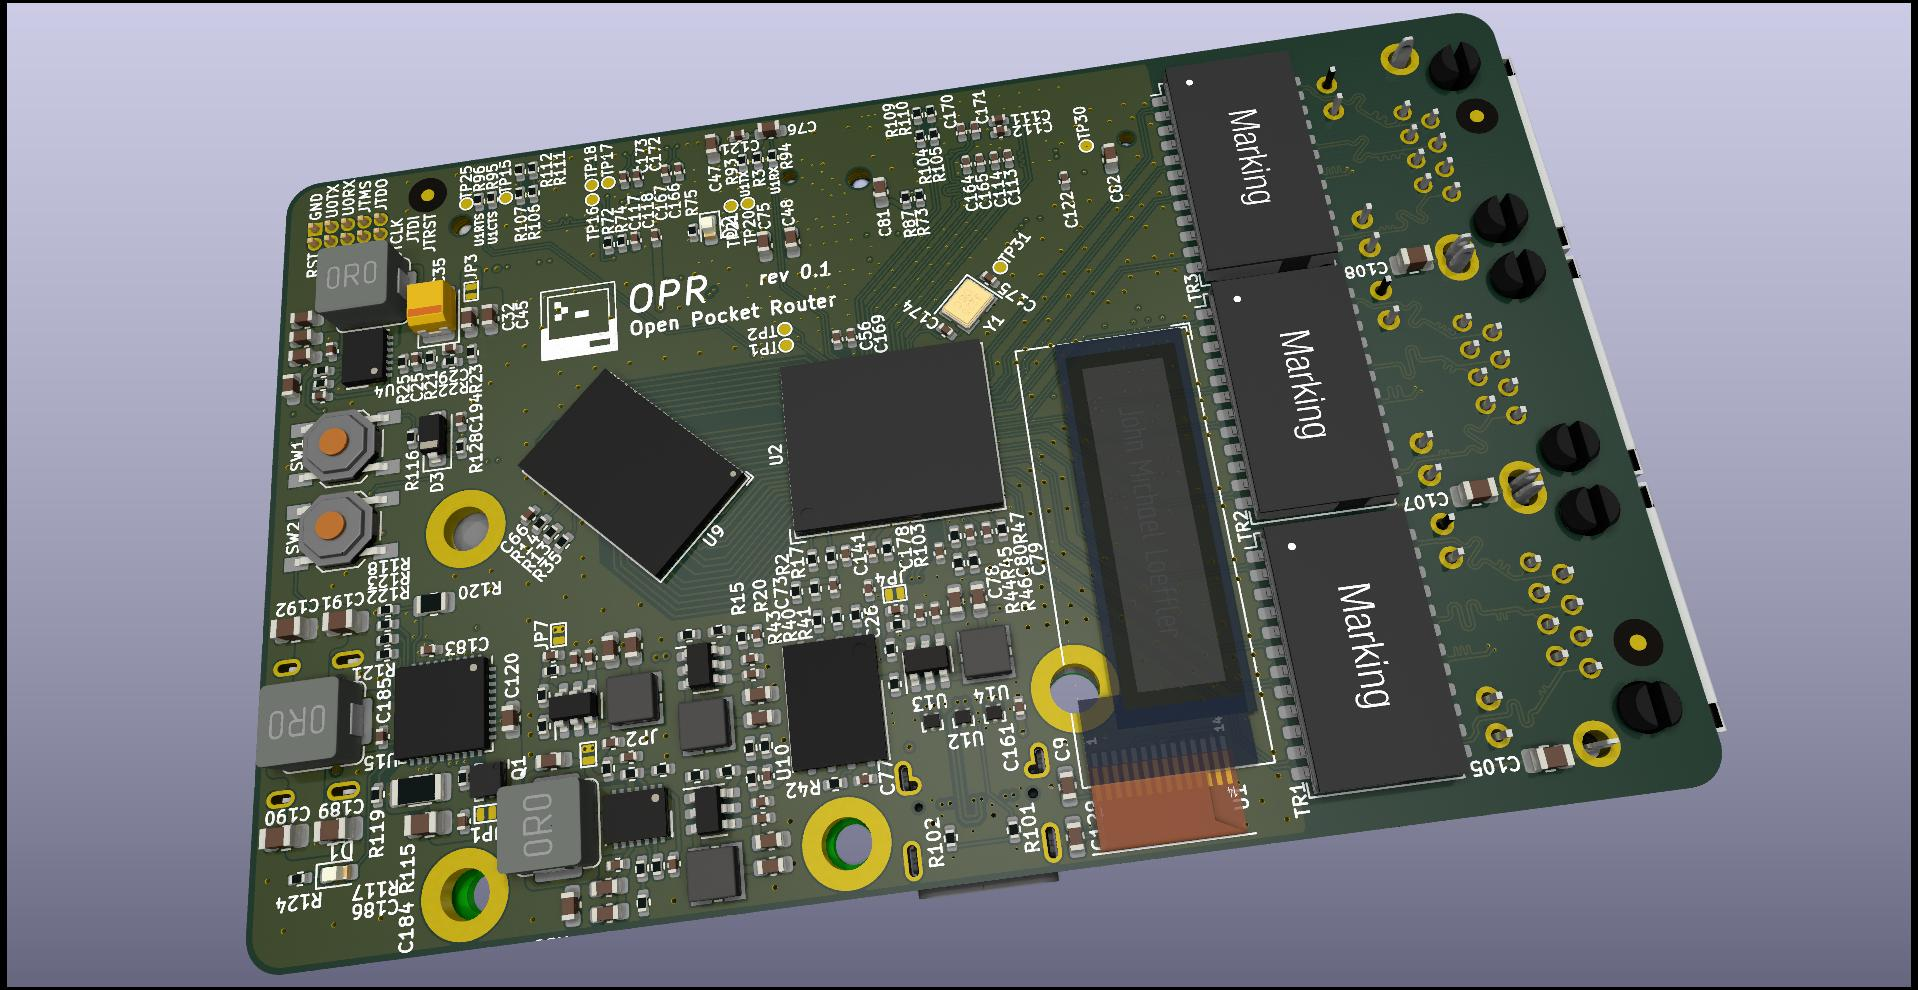
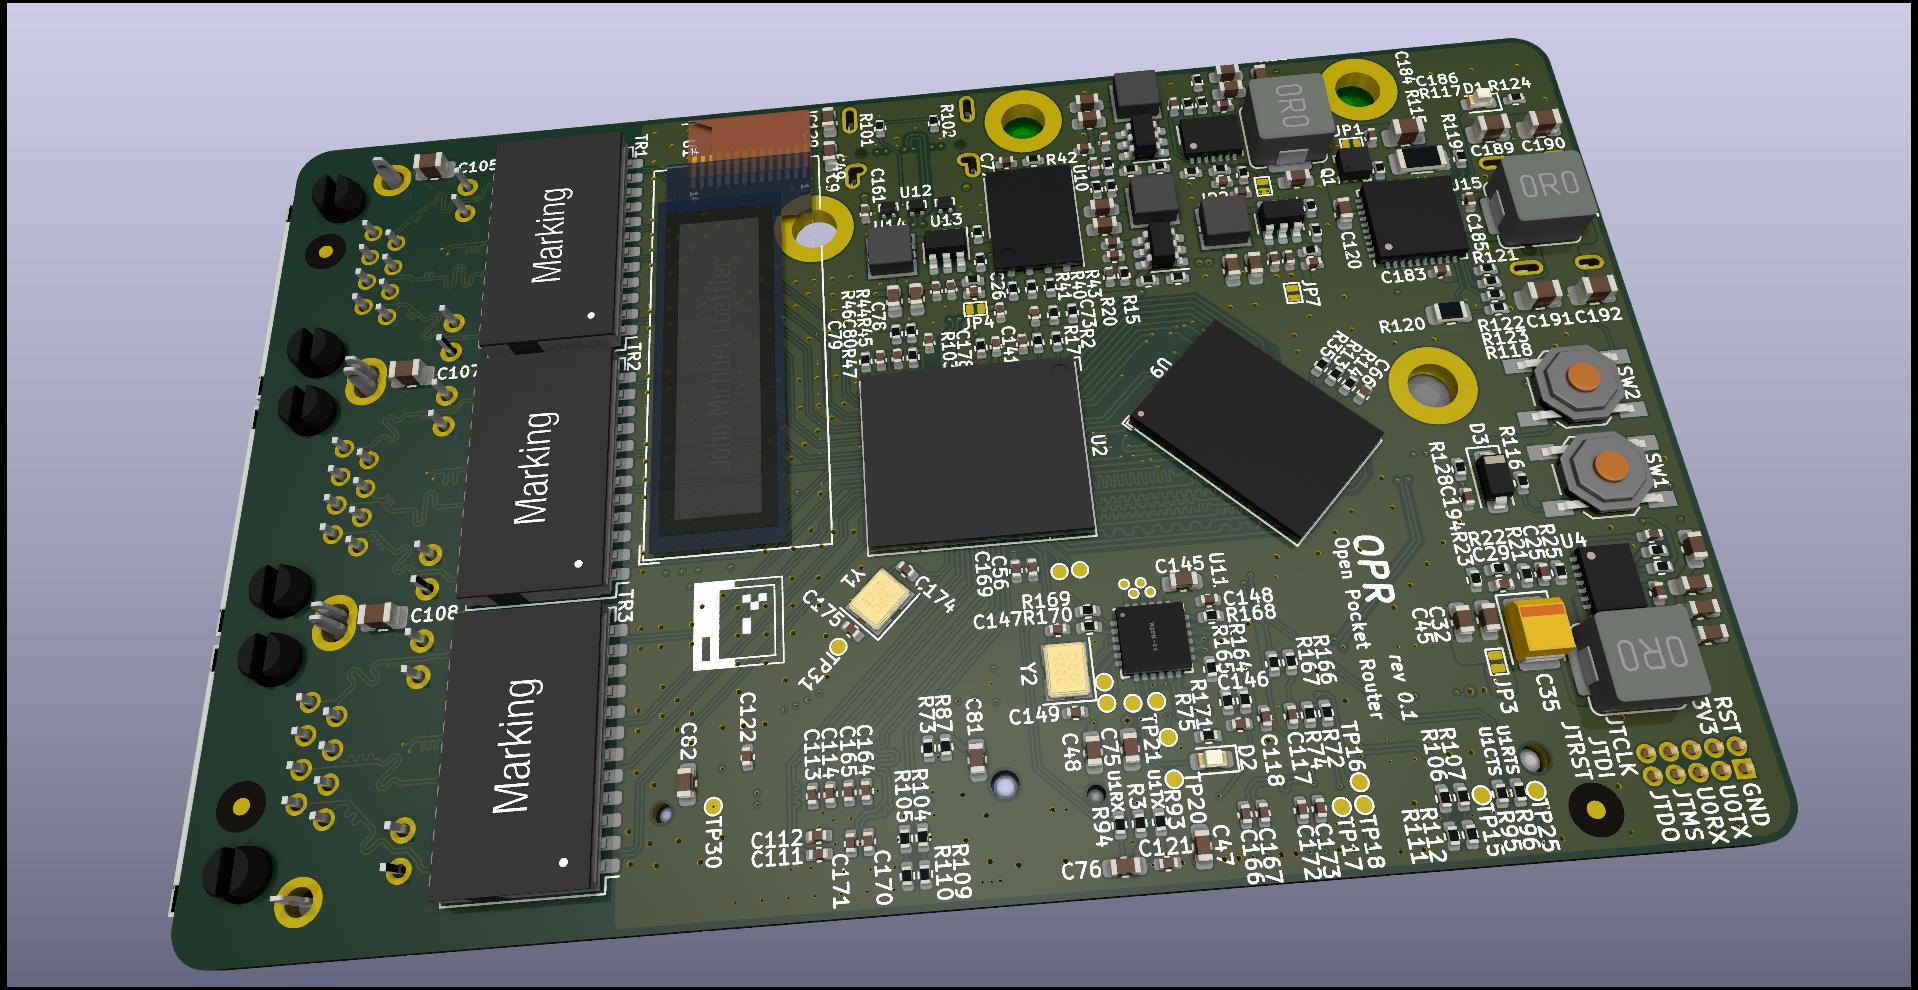
update img

diff --git a/README.md b/README.md
@@ -4,8 +4,8 @@ Open pocket router
 ## Screenshots
 
 ![Top view](assets/opr_t.jpg)
-
 ![Bottom view](assets/opr_b.jpg)
+![Bottom view 2](assets/opr_b2.jpg)
 
 ## In developing!!!
 
